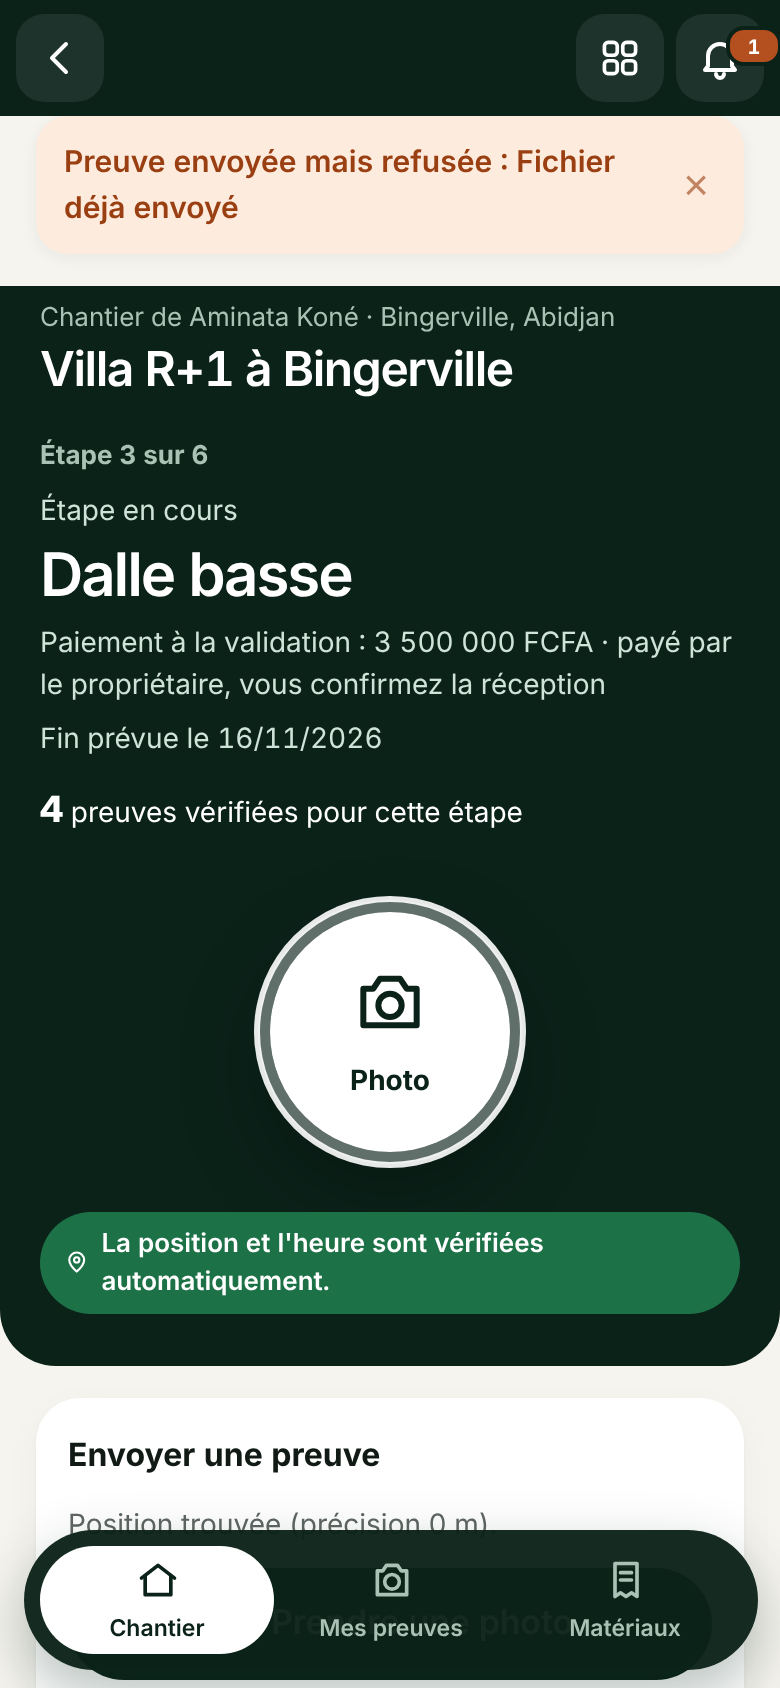
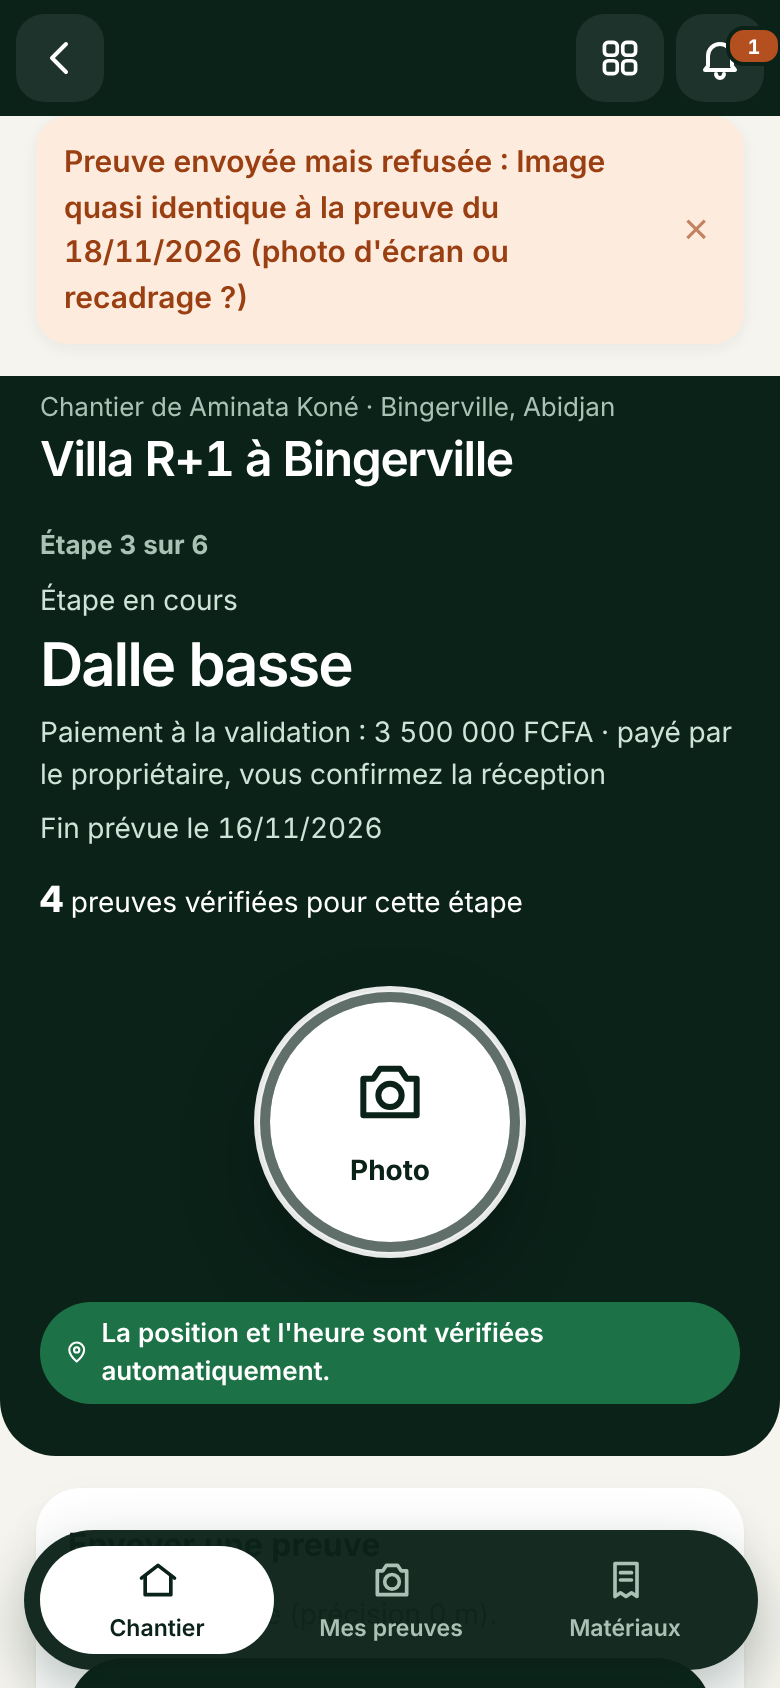
Add files via upload

diff --git a/mobile/src/components/ui.js b/mobile/src/components/ui.js
@@ -4,6 +4,7 @@ import { SafeAreaView, useSafeAreaInsets } from 'react-native-safe-area-context'
 import { Ionicons } from '@expo/vector-icons';
 import { C, R } from '../theme';
 import { t } from '../core/i18n';
+import { fcfa } from '../core/format';
 
 export function Screen({ title, kicker, onBack, right, children, refreshing, onRefresh, scroll = true, large, dark }) {
   // En-tête d'application : retour (chevron) à gauche, titre, actions à droite. Grand titre sur les écrans d'onglet.
@@ -70,13 +71,23 @@ export function TabBar({ tabs, active, onChange }) {
 }
 
 // Bandeau vert profond : un grand chiffre et deux indicateurs (accueil du propriétaire).
-export function Band({ kicker, value, unit, sub, stats, progress }) {
+export function Band({ kicker, value, unit, sub, stats, progress, months, night }) {
+  const hasMonths = months && months.some((m) => m.amount);
   return (
-    <View style={s.band}>
-      <Text style={s.bandKickerUp}>{kicker}</Text>
-      <Text style={s.bandBig}>{value} <Text style={s.bandUnit}>{unit}</Text></Text>
+    <View style={[s.band, night && s.bandNight]}>
+      <Text style={[s.bandKickerUp, night && { letterSpacing: 1.6 }]}>{kicker}</Text>
+      <Text style={[s.bandBig, night && s.bandBigNight]}>{value} <Text style={s.bandUnit}>{unit}</Text></Text>
       {sub ? <Text style={s.bandKicker}>{sub}</Text> : null}
-      {progress != null ? <View style={s.bandLine}><View style={[s.bandLineFill, { width: `${Math.max(0, Math.min(100, progress))}%` }]} /></View> : null}
+      {hasMonths ? (
+        <View accessible accessibilityLabel={months.map((m) => `${m.label} : ${fcfa(m.amount)} FCFA`).join(', ')} style={{ marginTop: 16, gap: 6 }}>
+          <View style={s.monthsBars}>
+            {months.map((m) => <View key={m.label} style={[s.monthBar, m.current && s.monthBarNow, { height: `${Math.max(6, m.pct)}%` }]} />)}
+          </View>
+          <View style={{ flexDirection: 'row', gap: 6 }}>
+            {months.map((m) => <Text key={m.label} style={[s.monthLabel, m.current && { color: C.gold, fontWeight: '600' }]}>{m.label}</Text>)}
+          </View>
+        </View>
+      ) : progress != null ? <View style={s.bandLine}><View style={[s.bandLineFill, { width: `${Math.max(0, Math.min(100, progress))}%` }]} /></View> : null}
       {stats ? (
         <View style={s.bandStats}>
           {stats.map((x) => (
@@ -169,19 +180,19 @@ export function Field({ label, secureTextEntry, onFocus, onBlur, ...props }) {
 }
 
 // Carte « Votre décision » : une étape terminée attend le propriétaire.
-export function DecisionCard({ kicker, title, sub, amount, onPress }) {
+export function DecisionCard({ kicker, title, sub, amount, onPress, night }) {
   return (
     <Pressable onPress={onPress} accessibilityRole="button" accessibilityLabel={`${kicker} : ${title}, ${amount} FCFA`}
-      style={({ pressed }) => [s.decide, pressed && { transform: [{ scale: 0.985 }] }]}>
-      <View style={s.decideIco}><Ionicons name="checkmark-circle-outline" size={24} color={C.goldText} /></View>
+      style={({ pressed }) => [s.decide, night && s.decideNight, pressed && { transform: [{ scale: 0.985 }] }]}>
+      <View style={[s.decideIco, night && { backgroundColor: C.gold }]}><Ionicons name="checkmark-circle-outline" size={24} color={night ? C.goldInk : C.goldText} /></View>
       <View style={{ flex: 1, gap: 2 }}>
-        <Text style={s.decideKicker}>{kicker}</Text>
-        <Text style={s.decideTitle} numberOfLines={1}>{title}</Text>
-        {sub ? <Text style={s.muted} numberOfLines={1}>{sub}</Text> : null}
+        <Text style={[s.decideKicker, night && { color: C.gold }]}>{kicker}</Text>
+        <Text style={[s.decideTitle, night && { color: '#fff' }]} numberOfLines={1}>{title}</Text>
+        {sub ? <Text style={[s.muted, night && { color: '#8FA79A' }]} numberOfLines={1}>{sub}</Text> : null}
       </View>
       <View style={{ alignItems: 'flex-end' }}>
-        <Text style={s.decideAmt}>{amount}</Text>
-        <Text style={[s.muted, { fontSize: 11 }]}>FCFA</Text>
+        <Text style={[s.decideAmt, night && { color: '#fff' }]}>{amount}</Text>
+        <Text style={[s.muted, { fontSize: 11 }, night && { color: '#8FA79A' }]}>FCFA</Text>
       </View>
     </Pressable>
   );
@@ -219,6 +230,21 @@ export function SlideToConfirm({ label, onConfirm, disabled, loading }) {
         {loading ? <ActivityIndicator color={C.goldInk} /> : <Ionicons name="arrow-forward" size={22} color={C.goldInk} />}
       </Animated.View>
     </View>
+  );
+}
+
+// En-tête de l'accueil du propriétaire, édition nuit : initiales dorées, salutation, nom complet.
+export function NightGreeting({ name, hello, onPress }) {
+  const parts = (name || '?').split(' ');
+  const initials = `${parts[0][0] || ''}${parts[1] ? parts[1][0] : ''}`.toUpperCase();
+  return (
+    <Pressable onPress={onPress} accessibilityRole="button" accessibilityLabel={`${hello}, ${name}`} style={{ flexDirection: 'row', alignItems: 'center', gap: 12 }}>
+      <View style={s.nightAv}><Text style={s.nightAvText}>{initials}</Text></View>
+      <View style={{ flex: 1 }}>
+        <Text style={{ color: '#8FA79A', fontSize: 13 }}>{hello}</Text>
+        <Text style={{ color: '#fff', fontSize: 20, fontWeight: '600', letterSpacing: -0.4 }} numberOfLines={1}>{name}</Text>
+      </View>
+    </Pressable>
   );
 }
 
@@ -321,6 +347,15 @@ const s = StyleSheet.create({
   btnTextGhost: { color: C.text },
   label: { fontSize: 13, fontWeight: '600', color: C.text },
   input: { borderWidth: 1, borderColor: C.border, borderRadius: 12, padding: 12, minHeight: 48, fontSize: 16, backgroundColor: '#fff', color: C.text },
+  bandNight: { backgroundColor: 'transparent', paddingHorizontal: 0, paddingTop: 8 },
+  bandBigNight: { fontSize: 60, letterSpacing: -3, fontWeight: '300' },
+  monthsBars: { flexDirection: 'row', alignItems: 'flex-end', gap: 6, height: 64 },
+  monthBar: { flex: 1, borderRadius: 5, backgroundColor: 'rgba(255,255,255,0.12)' },
+  monthBarNow: { backgroundColor: C.gold },
+  monthLabel: { flex: 1, textAlign: 'center', fontSize: 11, color: '#5F7769' },
+  decideNight: { backgroundColor: 'rgba(201,164,106,0.08)', borderWidth: 1, borderColor: 'rgba(201,164,106,0.38)', shadowOpacity: 0, elevation: 0 },
+  nightAv: { width: 46, height: 46, borderRadius: 23, backgroundColor: C.gold, alignItems: 'center', justifyContent: 'center' },
+  nightAvText: { color: C.goldInk, fontSize: 15, fontWeight: '700' },
   decide: { flexDirection: 'row', alignItems: 'center', gap: 14, backgroundColor: C.card, borderRadius: 22, padding: 16,
     shadowColor: '#111A15', shadowOpacity: 0.07, shadowRadius: 16, shadowOffset: { width: 0, height: 6 }, elevation: 2 },
   decideIco: { width: 44, height: 44, borderRadius: 14, backgroundColor: C.goldSoft, alignItems: 'center', justifyContent: 'center' },

diff --git a/mobile/src/screens/ProjectsScreen.js b/mobile/src/screens/ProjectsScreen.js
@@ -1,7 +1,8 @@
 import React, { useCallback, useEffect, useState } from 'react';
-import { Screen, Card, T, Pill, Row, Button, Field, Banner, Band, PhotoCard, DecisionCard } from '../components/ui';
+import { Screen, Card, T, Pill, Row, Button, Field, Banner, Band, PhotoCard, DecisionCard, NightGreeting } from '../components/ui';
 import { api, current, queue, setCounts } from '../services/session';
 import { t, getLang } from '../core/i18n';
+import { C } from '../theme';
 import { fcfa } from '../core/format';
 
 // « Bonsoir » / « Bonjour » et la date du jour, dans la langue de l'application
@@ -55,10 +56,13 @@ export default function ProjectsScreen({ go }) {
     try { await api.joinProject(code.trim().toUpperCase()); setCode(''); load(); } catch (e) { setError(e.message); }
   }
 
+  // Accueil du propriétaire : édition nuit (fond sombre, chiffres fins, doré pour décider)
+  const night = user.role === 'proprio' && projects.length > 0;
   return (
-    <Screen large kicker={user.role === 'proprio' ? todayLabel() : undefined}
-      title={user.role === 'fournisseur' ? t('Mes commandes') : user.role === 'proprio' ? `${hello()}, ${(user.name || '').split(' ')[0]}` : 'ChantierVrai'}
+    <Screen large dark={night}
+      title={night ? '' : user.role === 'fournisseur' ? t('Mes commandes') : user.role === 'proprio' ? `${hello()}, ${(user.name || '').split(' ')[0]}` : 'ChantierVrai'}
       refreshing={loading} onRefresh={load}>
+      {night ? <NightGreeting name={user.name} hello={`${hello()} · ${todayLabel()}`} onPress={() => go('settings')} /> : null}
       <Banner text={error} tone="error" />
       {pending ? <Banner text={t('%(n)s preuve(s) en attente de réseau', { n: pending })} /> : null}
       {toConfirm ? (
@@ -68,17 +72,17 @@ export default function ProjectsScreen({ go }) {
         </Card>
       ) : null}
       {user.role === 'proprio' && summary && projects.length ? (
-        <Band kicker={projects.length > 1 ? t('Argent suivi sur vos %(n)s chantiers', { n: projects.length }) : t('Argent suivi sur votre chantier')}
-          value={summary.paid_short} unit={t('FCFA versés')} sub={`${t('sur un budget de')} ${summary.total_short} FCFA`}
+        <Band night months={summary.months} kicker={projects.length > 1 ? t('Argent suivi sur vos %(n)s chantiers', { n: projects.length }) : t('Argent suivi sur votre chantier')}
+          value={summary.paid_short} unit={t('FCFA versés')} sub={`${t('sur un budget de')} ${summary.total_short} FCFA · ${t('chaque franc justifié par une preuve vérifiée')}`}
           progress={summary.total ? (100 * summary.paid) / summary.total : 0}
           stats={[{ label: t('À valider'), value: t('%(n)s étape(s)', { n: summary.to_validate }),
             onPress: summary.to_validate ? () => go('project', { id: (projects.find((x) => x.to_validate) || projects[0]).id }) : undefined }]} />
       ) : null}
       {user.role === 'proprio' ? projects.filter((p) => p.current && p.current.status === 'declare').map((p) => (
-        <DecisionCard key={`d${p.id}`} kicker={t('Votre décision')} title={t('%(name)s terminée', { name: p.current.name })}
+        <DecisionCard night key={`d${p.id}`} kicker={t('Votre décision')} title={t('%(name)s terminée', { name: p.current.name })}
           sub={p.name} amount={compactAmount(p.current.amount)} onPress={() => go('project', { id: p.id })} />
       )) : null}
-      {projects.length ? <T bold style={{ fontSize: 19, fontWeight: '600', letterSpacing: -0.3, marginTop: 6 }}>{user.role === 'proprio' ? t('Vos chantiers') : t('Mes chantiers')}</T> : null}
+      {projects.length ? <T bold style={{ fontSize: 19, fontWeight: '600', letterSpacing: -0.3, marginTop: 6, color: night ? '#fff' : C.text }}>{user.role === 'proprio' ? t('Vos chantiers') : t('Mes chantiers')}</T> : null}
       {projects.map((p) => {
         const late = p.prediction && !p.prediction.done && p.prediction.delay > 7;
         const tags = p.to_validate ? [{ text: t('Étape à valider'), hot: true }]

diff --git a/mobile/src/core/i18n.js b/mobile/src/core/i18n.js
@@ -2,6 +2,7 @@
 // Les messages venant du serveur (refus, statuts, alertes) arrivent deja traduits.
 
 const EN = {
+  'chaque franc justifié par une preuve vérifiée': 'every franc backed by a verified proof',
   'Fermer': 'Close',
   'Toutes les fonctions': 'All functions',
   'Toutes les fonctions du chantier': 'All project functions',
